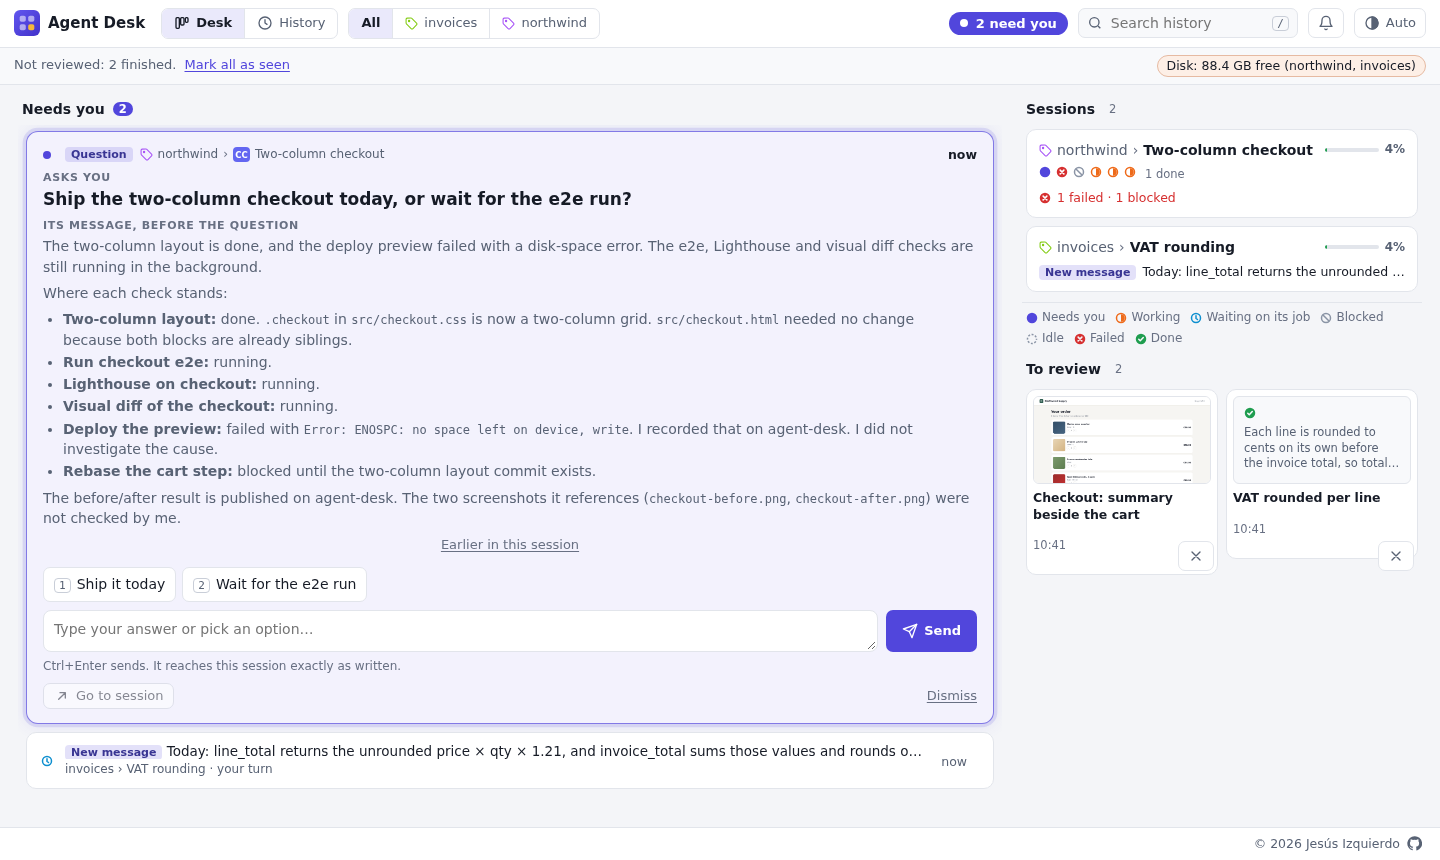
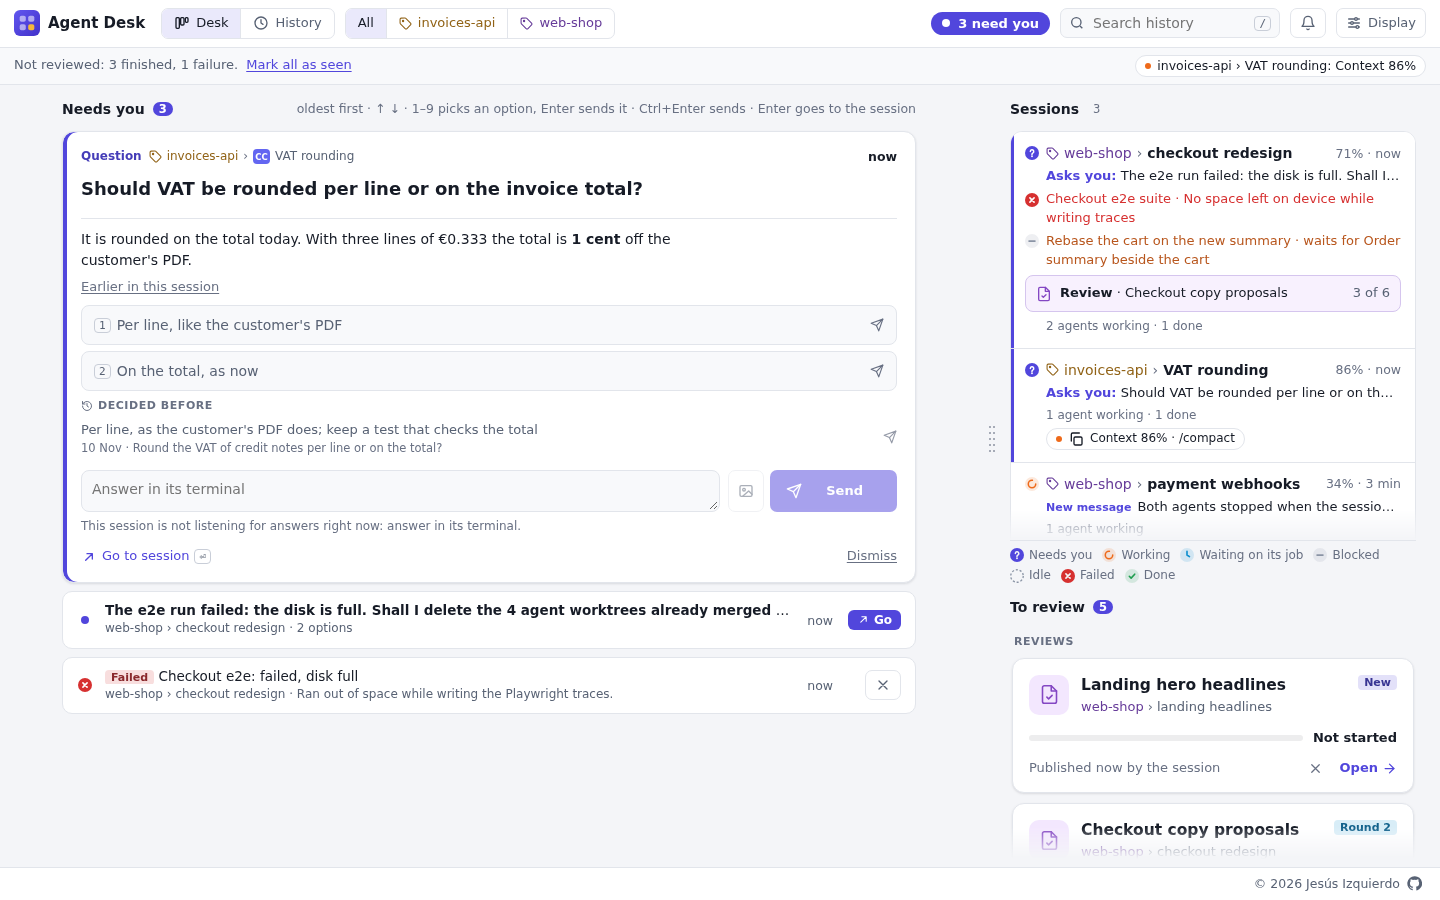
The README says what the desk does today: sub-agents and local servers recorded by themselves, links in review pages, no cloud and the one opt-in push, 30 screens in the visual test, and a current screenshot

diff --git a/README.md b/README.md
@@ -4,7 +4,7 @@
 without going to look for it.
 
 <p align="center">
-  <img src="docs/images/dashboard.png" width="720" alt="The dashboard: what needs you on the left, answered in place; sessions and results to review on the right">
+  <img src="docs/images/dashboard.png" width="720" alt="The dashboard: what needs you on the left, answered in place; sessions and reviews on the right">
 </p>
 
 You run several AI coding sessions across a few projects, each with its own swarm of sub-agents,
@@ -21,8 +21,10 @@ and step away. When you come back, one browser tab shows:
 - **Pages to review at your pace:** a page a session made for you to choose from (proposals,
   variants, a checklist) opens whole on the desk, keeps your answers across devices and days, and
   goes back to the session with one click.
-- **What is happening now:** each session, its agents, what each one is doing, which are blocked and
-  which failed, and which sessions wrote something you have not read.
+- **What is happening now:** each session, its agents (recorded by hooks as they launch, resume and
+  stop, never by the model), what each one is doing, which are blocked and which failed, the local
+  servers its commands started (found by themselves, with their link), and which sessions wrote
+  something you have not read.
 - **Where each branch stands:** under a session's agents, each agent's branch and worktree read from
   git (commits ahead and behind, uncommitted files, last commit, what runs in it), with how old the
   reading is; `agent-desk status` prints the same for the session, and before a compaction it is
@@ -34,8 +36,9 @@ and step away. When you come back, one browser tab shows:
 - **From your phone,** through your own Tailscale tailnet, behind a PIN.
 
 It costs almost nothing: about 750 tokens per session for its instructions; everything else is done
-by deterministic hooks that never go through the model. Nothing leaves your machine, and it never
-writes into the projects it follows (no files, no rules, no commits).
+by deterministic hooks that never go through the model. No cloud and no telemetry: nothing leaves
+your machine except an opt-in push telling a locked phone how many questions wait. It never writes
+into the projects it follows (no files, no rules, no commits).
 
 It knows nothing about any one AI tool: each tool reports through a thin adapter (`adapters/<tool>/`)
 over a plain file-and-CLI protocol. Claude Code has one today; Codex, Grok or any other agent CLI
@@ -190,7 +193,10 @@ that line to paste into another conversation, followed word for word by your not
 `agent-desk decisions --search` finds them. A new session in the project is told about reviews sent
 and not read yet. A review you no longer want is closed without sending it: the × on its tile, or
 Close review in its bar, each asking for a second click; History keeps it, with the reason when a
-session closed it with `--close`. Details in [docs/protocol.md](docs/protocol.md#reviews).
+session closed it with `--close`. A link you click in a review page opens in a new tab when it is a
+local preview (`localhost`), so a session can offer live prototypes that screenshots cannot show (an
+option's `url` in `--options` becomes "Open live ↗"); on the phone it says it runs on the computer,
+and a link to anywhere else is not opened. Details in [docs/protocol.md](docs/protocol.md#reviews).
 
 ## Send keys to a session (tmux)
 
@@ -301,8 +307,9 @@ The page tests drive Chrome through its DevTools protocol, with no test dependen
 `google-chrome` or `chromium` from `PATH`, or the browser in `AGENT_DESK_CHROME`; without one they
 are skipped, except in CI, where they fail.
 
-`test/visual.test.ts` compares 14 screens (the desk with questions and quiet, a session's agents, a
-result's before and after, a History search, each light and dark at 1440 × 900; four phone screens
+`test/visual.test.ts` compares 30 screens (the desk with questions and quiet, a session's agents and
+branches, a result's before and after, a History search, a review open, one drawn from data, one with
+the desk's option controls and its Send sheet, each light and dark at 1440 × 900; ten phone screens
 at 390 × 844) with the PNGs in `test/visual/<platform>/`. A screen fails when more than 16 pixels
 differ by more than 8 of 255 in a channel: a box moved by 1 px or a colour nudged by 4% fails. The
 failure prints the capture and a copy with the changed pixels in magenta, both under
